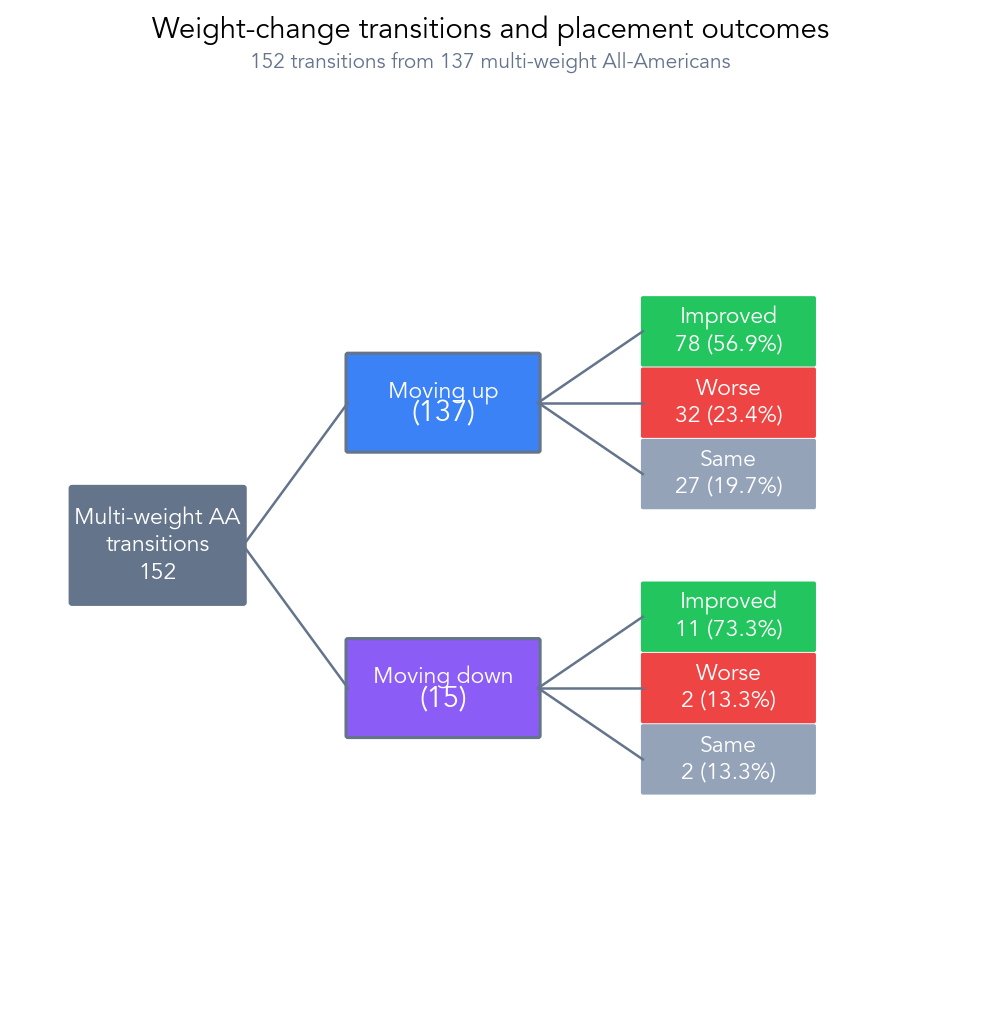
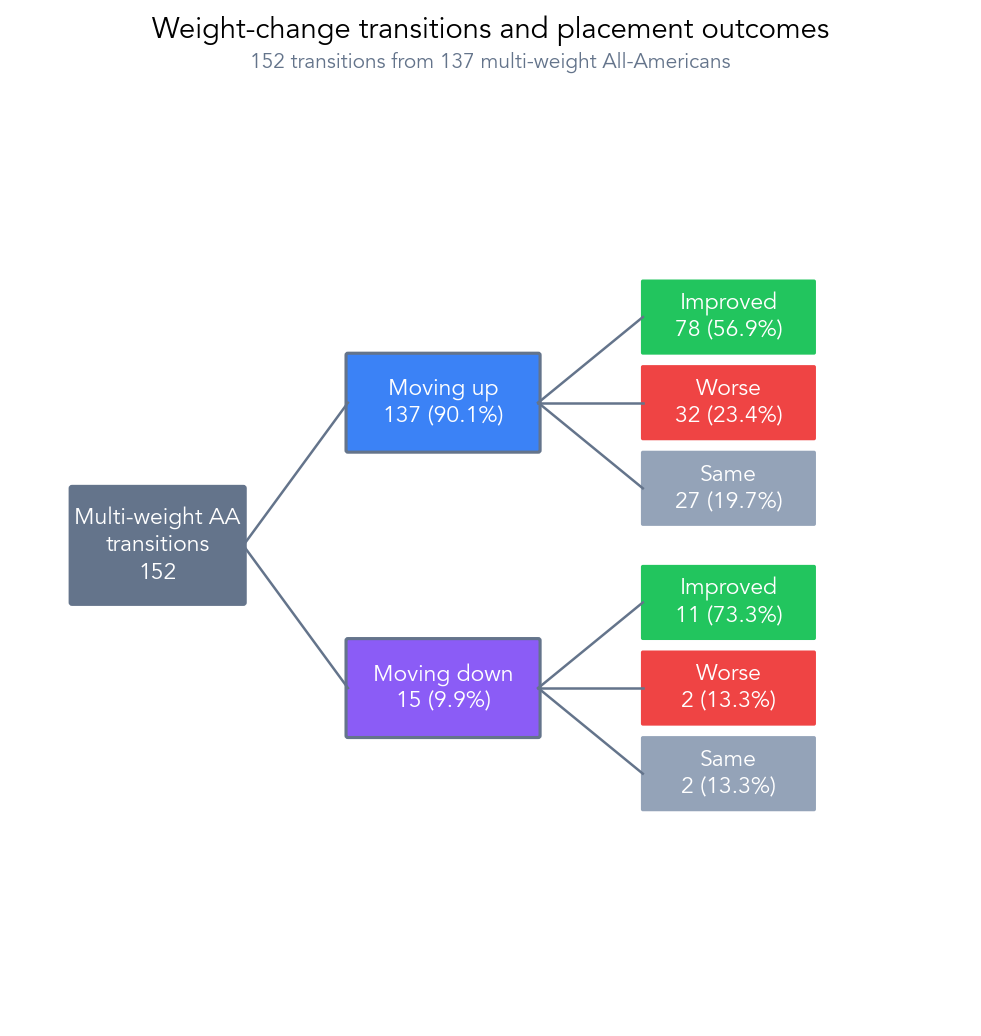
Weight-change flow chart: vertical spacing, percentages on move counts, uniform text

diff --git a/notebooks/analysis.py b/notebooks/analysis.py
@@ -716,36 +716,33 @@ if len(transitions_df) > 0:
     ax.set_aspect("equal")
     ax.axis("off")
 
-    def draw_box(x, y, w, h, label, color="#e2e8f0", text_color="black", borderless=False):
-        rect = mpatches.FancyBboxPatch((x - w/2, y - h/2), w, h, boxstyle="round,pad=0.02",
-                                        facecolor=color, edgecolor="none" if borderless else "#64748b",
-                                        linewidth=0 if borderless else 1.5)
-        ax.add_patch(rect)
-        ax.text(x, y, label, ha="center", va="center", fontsize=11, fontweight="medium", color=text_color)
-
     # Title and subtitle (outside chart)
     fig.suptitle("Weight-change transitions and placement outcomes", fontsize=14, fontweight="bold", y=0.98)
     fig.text(0.5, 0.93, "152 transitions from 137 multi-weight All-Americans", ha="center", fontsize=10, color="#64748b")
 
-    # Column 1 (left): Multi-weight AA transitions — width 1.8
+    # Column 1 (left): Multi-weight AA transitions
     left_w, left_h = 1.8, 1.2
-    draw_box(1.5, 5, left_w, left_h, f"Multi-weight AA\ntransitions\n{weight_move_stats['n_transitions']}", FLOW_LEFT, "white")
+    rect = mpatches.FancyBboxPatch((1.5 - left_w/2, 5 - left_h/2), left_w, left_h, boxstyle="round,pad=0.02",
+                                    facecolor=FLOW_LEFT, edgecolor="#64748b", linewidth=1.5)
+    ax.add_patch(rect)
+    ax.text(1.5, 5, f"Multi-weight AA\ntransitions\n{weight_move_stats['n_transitions']}", ha="center", va="center", fontsize=11, color="white")
 
-    # Column 2: Moving up / Moving down — labels 11pt bold, counts 13–14pt bold
+    # Column 2: Moving up / Moving down (with % like outcome boxes)
+    n_trans = weight_move_stats["n_transitions"]
     mid_w, mid_h = 2, 1
     for cx, cy, label, count, color in [
         (4.5, 6.5, "Moving up", weight_move_stats["moves_up"], FLOW_UP),
         (4.5, 3.5, "Moving down", weight_move_stats["moves_down"], FLOW_DOWN),
     ]:
+        pct = round(100 * count / n_trans, 1) if n_trans else 0
         rect = mpatches.FancyBboxPatch((cx - mid_w/2, cy - mid_h/2), mid_w, mid_h, boxstyle="round,pad=0.02",
                                         facecolor=color, edgecolor="#64748b", linewidth=1.5)
         ax.add_patch(rect)
-        ax.text(cx, cy + 0.12, label, ha="center", va="center", fontsize=11, fontweight="bold", color="white")
-        ax.text(cx, cy - 0.12, f"({count})", ha="center", va="center", fontsize=14, fontweight="bold", color="white")
+        ax.text(cx, cy, f"{label}\n{count} ({pct}%)", ha="center", va="center", fontsize=11, color="white")
 
-    # Column 3: Outcome boxes — Worse centered with previous (Moving up/down) box; Improved and Same equally spaced above/below
-    out_w, out_h = 1.8, 0.7
-    spacing = 0.75  # vertical gap between outcome boxes
+    # Column 3: Outcome boxes — Worse centered on source; Improved/Same with spacing (reduced so up/down sets don't touch)
+    out_w, out_h = 1.8, 0.75
+    spacing = 0.9  # vertical gap between outcome boxes (middle stays centered on source)
     up_center, down_center = 6.5, 3.5  # match middle column box centers
     outcome_specs = [
         (7.5, up_center + spacing, f"Improved\n{weight_move_stats['up_improved']} ({weight_move_stats['pct_up_improved']}%)", FLOW_GREEN),
@@ -756,7 +753,10 @@ if len(transitions_df) > 0:
         (7.5, down_center - spacing, f"Same\n{weight_move_stats['down_same']} ({weight_move_stats['pct_down_same']}%)", FLOW_GREY),
     ]
     for x, y, label, color in outcome_specs:
-        draw_box(x, y, out_w, out_h, label, color, "white", borderless=True)
+        rect = mpatches.FancyBboxPatch((x - out_w/2, y - out_h/2), out_w, out_h, boxstyle="round,pad=0.02",
+                                        facecolor=color, edgecolor="none", linewidth=0)
+        ax.add_patch(rect)
+        ax.text(x, y, label, ha="center", va="center", fontsize=11, color="white")
 
     # Uniform thin connectors (single color)
     left_right = 1.5 + left_w / 2  # left box right edge
